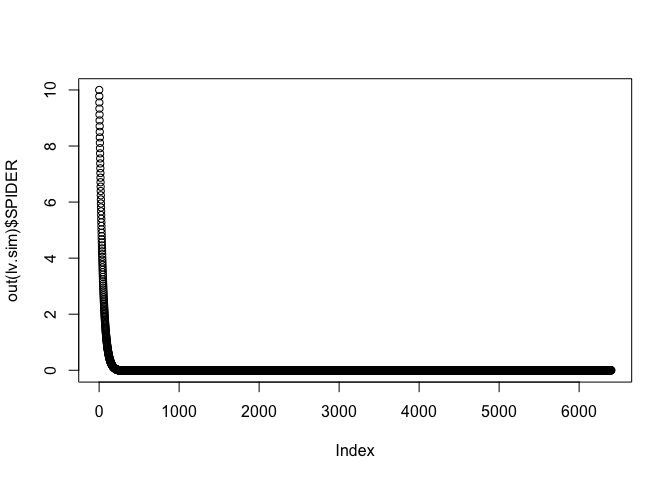
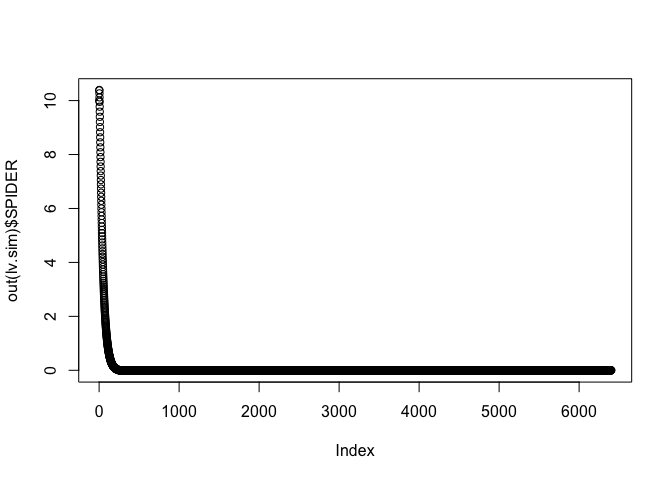
correct spiders

diff --git a/spiders-v3/README.md b/spiders-v3/README.md
@@ -27,7 +27,7 @@ lv.model <- new("odeModel",                   # object class = 'odeModel'
             PREYw <- dPREYw
             PREYv <- dPREYv
           
-            list(c(dSPIDER, dPREYw, dPREYv))
+            list(c(SPIDER, PREYw, PREYv))
            })
          },
          equations = list(
@@ -37,8 +37,8 @@ lv.model <- new("odeModel",                   # object class = 'odeModel'
          #.0078125
         times = seq(0, 50, .0078125), 
         parms = c(a=3.1, b=2.87, c=0.8, e=3.5, r=1, carryingCapacityW=5, saturationConstantH=0.7, h=0.7, k=0.01, K=0.8, q=0.2, insecticideEfficiencyAlpha=0.2),
-        init = c(SPIDER=10, PREYw=25, PREYv=25),
-        solver = "euler"                      # 'lsoda' available for 'odemodel' class
+        init = c(SPIDER=10, PREYw=2500, PREYv=2500),
+        solver = "lsoda"                      # 'lsoda' available for 'odemodel' class
         
       )
 ```
@@ -85,13 +85,13 @@ plotupca <- function(obj, ...) {
 head(out(lv.sim))
 ```
 
-    ##        time    SPIDER    PREYw    PREYv
-    ## 1 0.0000000 10.000000 25.00000 25.00000
-    ## 2 0.0078125  9.774744 22.65188 25.46439
-    ## 3 0.0156250  9.553109 20.63889 25.94628
-    ## 4 0.0234375  9.335281 18.89792 26.44609
-    ## 5 0.0312500  9.121387 17.38058 26.96422
-    ## 6 0.0390625  8.911511 16.04917 27.50109
+    ##        time    SPIDER     PREYw    PREYv
+    ## 1 0.0000000 10.000000 2500.0000 2500.000
+    ## 2 0.0078125 10.394115  492.3822 2569.068
+    ## 3 0.0156250 10.375990  266.0655 2640.048
+    ## 4 0.0234375 10.267589  179.0346 2712.997
+    ## 5 0.0312500 10.120238  133.0887 2787.971
+    ## 6 0.0390625  9.952524  104.7736 2865.027
 
 ``` r
 main(lv.sim)
@@ -109,7 +109,7 @@ main(lv.sim)
     ##             PREYw <- dPREYw
     ##             PREYv <- dPREYv
     ##           
-    ##             list(c(dSPIDER, dPREYw, dPREYv))
+    ##             list(c(SPIDER, PREYw, PREYv))
     ##            })
     ##          }
 
@@ -118,7 +118,7 @@ init(lv.sim)
 ```
 
     ## SPIDER  PREYw  PREYv 
-    ##     10     25     25
+    ##     10   2500   2500
 
 ``` r
 parms(lv.sim)
@@ -157,7 +157,7 @@ equations(lv.sim)
 solver(lv.sim)
 ```
 
-    ## [1] "euler"
+    ## [1] "lsoda"
 
 ``` r
 class(lv.sim)
@@ -174,28 +174,29 @@ str(lv.sim)
     ## Formal class 'odeModel' [package "simecol"] with 10 slots
     ##   ..@ parms    : Named num [1:12] 3.1 2.87 0.8 3.5 1 5 0.7 0.7 0.01 0.8 ...
     ##   .. ..- attr(*, "names")= chr [1:12] "a" "b" "c" "e" ...
-    ##   ..@ init     : Named num [1:3] 10 25 25
+    ##   ..@ init     : Named num [1:3] 10 2500 2500
     ##   .. ..- attr(*, "names")= chr [1:3] "SPIDER" "PREYw" "PREYv"
     ##   ..@ observer : NULL
     ##   ..@ main     :function (time, y, parms)  
     ##   .. ..- attr(*, "srcref")=Class 'srcref'  atomic [1:8] 11 17 25 10 17 10 11 25
-    ##   .. .. .. ..- attr(*, "srcfile")=Classes 'srcfilecopy', 'srcfile' <environment: 0x7fd053409068> 
+    ##   .. .. .. ..- attr(*, "srcfile")=Classes 'srcfilecopy', 'srcfile' <environment: 0x7f93b9647468> 
     ##   ..@ equations:List of 2
     ##   .. ..$ psi:function (insecticideEfficiencyAlpha, time)  
     ##   .. .. ..- attr(*, "srcref")=Class 'srcref'  atomic [1:8] 27 18 27 101 18 101 27 27
-    ##   .. .. .. .. ..- attr(*, "srcfile")=Classes 'srcfilecopy', 'srcfile' <environment: 0x7fd053409068> 
+    ##   .. .. .. .. ..- attr(*, "srcfile")=Classes 'srcfilecopy', 'srcfile' <environment: 0x7f93b9647468> 
     ##   .. ..$ e  :function ()  
     ##   .. .. ..- attr(*, "srcref")=Class 'srcref'  atomic [1:8] 28 16 28 34 16 34 28 28
-    ##   .. .. .. .. ..- attr(*, "srcfile")=Classes 'srcfilecopy', 'srcfile' <environment: 0x7fd053409068> 
+    ##   .. .. .. .. ..- attr(*, "srcfile")=Classes 'srcfilecopy', 'srcfile' <environment: 0x7f93b9647468> 
     ##   ..@ times    : num [1:6401] 0 0.00781 0.01562 0.02344 0.03125 ...
     ##   ..@ inputs   : NULL
-    ##   ..@ solver   : chr "euler"
+    ##   ..@ solver   : chr "lsoda"
     ##   ..@ out      : deSolve [1:6401, 1:4] 0 0.00781 0.01562 0.02344 0.03125 ...
-    ##   .. ..- attr(*, "istate")= int [1:21] 0 6400 6401 NA NA NA NA NA NA NA ...
     ##   .. ..- attr(*, "dimnames")=List of 2
     ##   .. .. ..$ : NULL
     ##   .. .. ..$ : chr [1:4] "time" "SPIDER" "PREYw" "PREYv"
+    ##   .. ..- attr(*, "istate")= int [1:21] 2 6494 12989 NA 6 6 0 68 23 NA ...
+    ##   .. ..- attr(*, "rstate")= num [1:5] 0.00781 0.00781 50.00731 0 0
     ##   .. ..- attr(*, "lengthvar")= int 3
     ##   .. ..- attr(*, "class")= chr [1:2] "deSolve" "matrix"
-    ##   .. ..- attr(*, "type")= chr "rk"
+    ##   .. ..- attr(*, "type")= chr "lsoda"
     ##   ..@ initfunc : NULL

diff --git a/spiders-v3/spiders-v3.md b/spiders-v3/spiders-v3.md
@@ -27,7 +27,7 @@ lv.model <- new("odeModel",                   # object class = 'odeModel'
             PREYw <- dPREYw
             PREYv <- dPREYv
           
-            list(c(dSPIDER, dPREYw, dPREYv))
+            list(c(SPIDER, PREYw, PREYv))
            })
          },
          equations = list(
@@ -37,8 +37,8 @@ lv.model <- new("odeModel",                   # object class = 'odeModel'
          #.0078125
         times = seq(0, 50, .0078125), 
         parms = c(a=3.1, b=2.87, c=0.8, e=3.5, r=1, carryingCapacityW=5, saturationConstantH=0.7, h=0.7, k=0.01, K=0.8, q=0.2, insecticideEfficiencyAlpha=0.2),
-        init = c(SPIDER=10, PREYw=25, PREYv=25),
-        solver = "euler"                      # 'lsoda' available for 'odemodel' class
+        init = c(SPIDER=10, PREYw=2500, PREYv=2500),
+        solver = "lsoda"                      # 'lsoda' available for 'odemodel' class
         
       )
 ```
@@ -85,13 +85,13 @@ plotupca <- function(obj, ...) {
 head(out(lv.sim))
 ```
 
-    ##        time    SPIDER    PREYw    PREYv
-    ## 1 0.0000000 10.000000 25.00000 25.00000
-    ## 2 0.0078125  9.774744 22.65188 25.46439
-    ## 3 0.0156250  9.553109 20.63889 25.94628
-    ## 4 0.0234375  9.335281 18.89792 26.44609
-    ## 5 0.0312500  9.121387 17.38058 26.96422
-    ## 6 0.0390625  8.911511 16.04917 27.50109
+    ##        time    SPIDER     PREYw    PREYv
+    ## 1 0.0000000 10.000000 2500.0000 2500.000
+    ## 2 0.0078125 10.394115  492.3822 2569.068
+    ## 3 0.0156250 10.375990  266.0655 2640.048
+    ## 4 0.0234375 10.267589  179.0346 2712.997
+    ## 5 0.0312500 10.120238  133.0887 2787.971
+    ## 6 0.0390625  9.952524  104.7736 2865.027
 
 ``` r
 main(lv.sim)
@@ -109,7 +109,7 @@ main(lv.sim)
     ##             PREYw <- dPREYw
     ##             PREYv <- dPREYv
     ##           
-    ##             list(c(dSPIDER, dPREYw, dPREYv))
+    ##             list(c(SPIDER, PREYw, PREYv))
     ##            })
     ##          }
 
@@ -118,7 +118,7 @@ init(lv.sim)
 ```
 
     ## SPIDER  PREYw  PREYv 
-    ##     10     25     25
+    ##     10   2500   2500
 
 ``` r
 parms(lv.sim)
@@ -157,7 +157,7 @@ equations(lv.sim)
 solver(lv.sim)
 ```
 
-    ## [1] "euler"
+    ## [1] "lsoda"
 
 ``` r
 class(lv.sim)
@@ -174,28 +174,29 @@ str(lv.sim)
     ## Formal class 'odeModel' [package "simecol"] with 10 slots
     ##   ..@ parms    : Named num [1:12] 3.1 2.87 0.8 3.5 1 5 0.7 0.7 0.01 0.8 ...
     ##   .. ..- attr(*, "names")= chr [1:12] "a" "b" "c" "e" ...
-    ##   ..@ init     : Named num [1:3] 10 25 25
+    ##   ..@ init     : Named num [1:3] 10 2500 2500
     ##   .. ..- attr(*, "names")= chr [1:3] "SPIDER" "PREYw" "PREYv"
     ##   ..@ observer : NULL
     ##   ..@ main     :function (time, y, parms)  
     ##   .. ..- attr(*, "srcref")=Class 'srcref'  atomic [1:8] 11 17 25 10 17 10 11 25
-    ##   .. .. .. ..- attr(*, "srcfile")=Classes 'srcfilecopy', 'srcfile' <environment: 0x7fd053409068> 
+    ##   .. .. .. ..- attr(*, "srcfile")=Classes 'srcfilecopy', 'srcfile' <environment: 0x7f93b9647468> 
     ##   ..@ equations:List of 2
     ##   .. ..$ psi:function (insecticideEfficiencyAlpha, time)  
     ##   .. .. ..- attr(*, "srcref")=Class 'srcref'  atomic [1:8] 27 18 27 101 18 101 27 27
-    ##   .. .. .. .. ..- attr(*, "srcfile")=Classes 'srcfilecopy', 'srcfile' <environment: 0x7fd053409068> 
+    ##   .. .. .. .. ..- attr(*, "srcfile")=Classes 'srcfilecopy', 'srcfile' <environment: 0x7f93b9647468> 
     ##   .. ..$ e  :function ()  
     ##   .. .. ..- attr(*, "srcref")=Class 'srcref'  atomic [1:8] 28 16 28 34 16 34 28 28
-    ##   .. .. .. .. ..- attr(*, "srcfile")=Classes 'srcfilecopy', 'srcfile' <environment: 0x7fd053409068> 
+    ##   .. .. .. .. ..- attr(*, "srcfile")=Classes 'srcfilecopy', 'srcfile' <environment: 0x7f93b9647468> 
     ##   ..@ times    : num [1:6401] 0 0.00781 0.01562 0.02344 0.03125 ...
     ##   ..@ inputs   : NULL
-    ##   ..@ solver   : chr "euler"
+    ##   ..@ solver   : chr "lsoda"
     ##   ..@ out      : deSolve [1:6401, 1:4] 0 0.00781 0.01562 0.02344 0.03125 ...
-    ##   .. ..- attr(*, "istate")= int [1:21] 0 6400 6401 NA NA NA NA NA NA NA ...
     ##   .. ..- attr(*, "dimnames")=List of 2
     ##   .. .. ..$ : NULL
     ##   .. .. ..$ : chr [1:4] "time" "SPIDER" "PREYw" "PREYv"
+    ##   .. ..- attr(*, "istate")= int [1:21] 2 6494 12989 NA 6 6 0 68 23 NA ...
+    ##   .. ..- attr(*, "rstate")= num [1:5] 0.00781 0.00781 50.00731 0 0
     ##   .. ..- attr(*, "lengthvar")= int 3
     ##   .. ..- attr(*, "class")= chr [1:2] "deSolve" "matrix"
-    ##   .. ..- attr(*, "type")= chr "rk"
+    ##   .. ..- attr(*, "type")= chr "lsoda"
     ##   ..@ initfunc : NULL

diff --git a/spiders-v1/spiders-v1.md b/spiders-v1/spiders-v1.md
@@ -8,6 +8,10 @@ library("simecol")
     ## Loading required package: deSolve
 
 ``` r
+# Spacio-Temporal Patterns of Ecology, case study: biological pest
+# control in vineyards. pg 115
+#
+
 lv.model <- new("odeModel",                   # object class = 'odeModel'
                 
          main = function(time, y, parms) {   # object method
@@ -22,7 +26,7 @@ lv.model <- new("odeModel",                   # object class = 'odeModel'
             PREYw <- dPREYw
             PREYv <- dPREYv
           
-            list(c(dSPIDER, dPREYw, dPREYv))
+            list(c(SPIDER, PREYw, PREYv))
            })
          },
          
@@ -97,7 +101,7 @@ main(lv.sim)
     ##             PREYw <- dPREYw
     ##             PREYv <- dPREYv
     ##           
-    ##             list(c(dSPIDER, dPREYw, dPREYv))
+    ##             list(c(SPIDER, PREYw, PREYv))
     ##            })
     ##          }
 
@@ -148,8 +152,8 @@ str(lv.sim)
     ##   .. ..- attr(*, "names")= chr [1:3] "SPIDER" "PREYw" "PREYv"
     ##   ..@ observer : NULL
     ##   ..@ main     :function (time, y, parms)  
-    ##   .. ..- attr(*, "srcref")=Class 'srcref'  atomic [1:8] 6 17 20 10 17 10 6 20
-    ##   .. .. .. ..- attr(*, "srcfile")=Classes 'srcfilecopy', 'srcfile' <environment: 0x7fa81441d2a8> 
+    ##   .. ..- attr(*, "srcref")=Class 'srcref'  atomic [1:8] 10 17 24 10 17 10 10 24
+    ##   .. .. .. ..- attr(*, "srcfile")=Classes 'srcfilecopy', 'srcfile' <environment: 0x7fc80996e0d8> 
     ##   ..@ equations: NULL
     ##   ..@ times    : num [1:6401] 0 0.00781 0.01562 0.02344 0.03125 ...
     ##   ..@ inputs   : NULL
